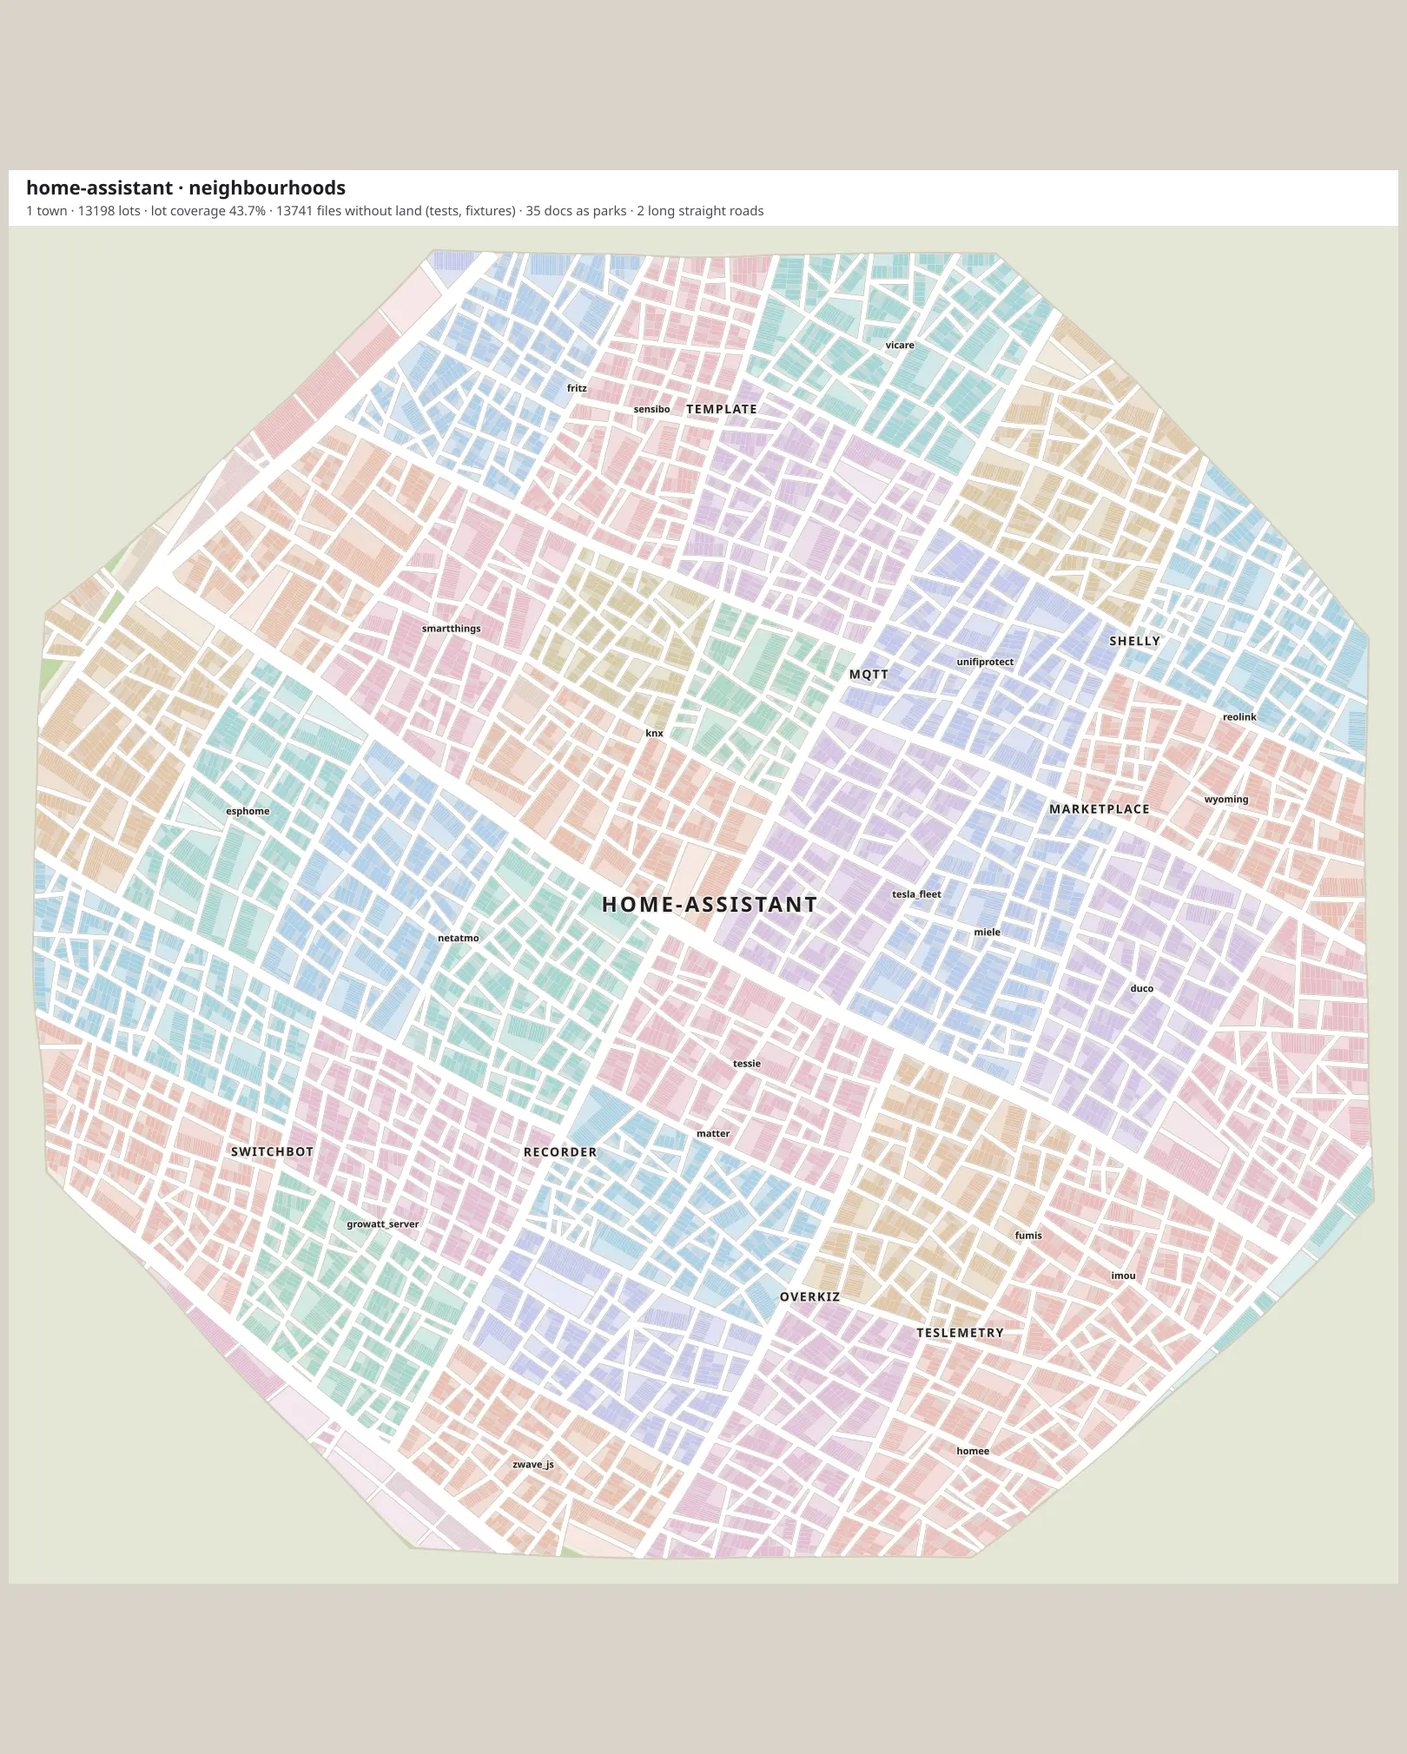
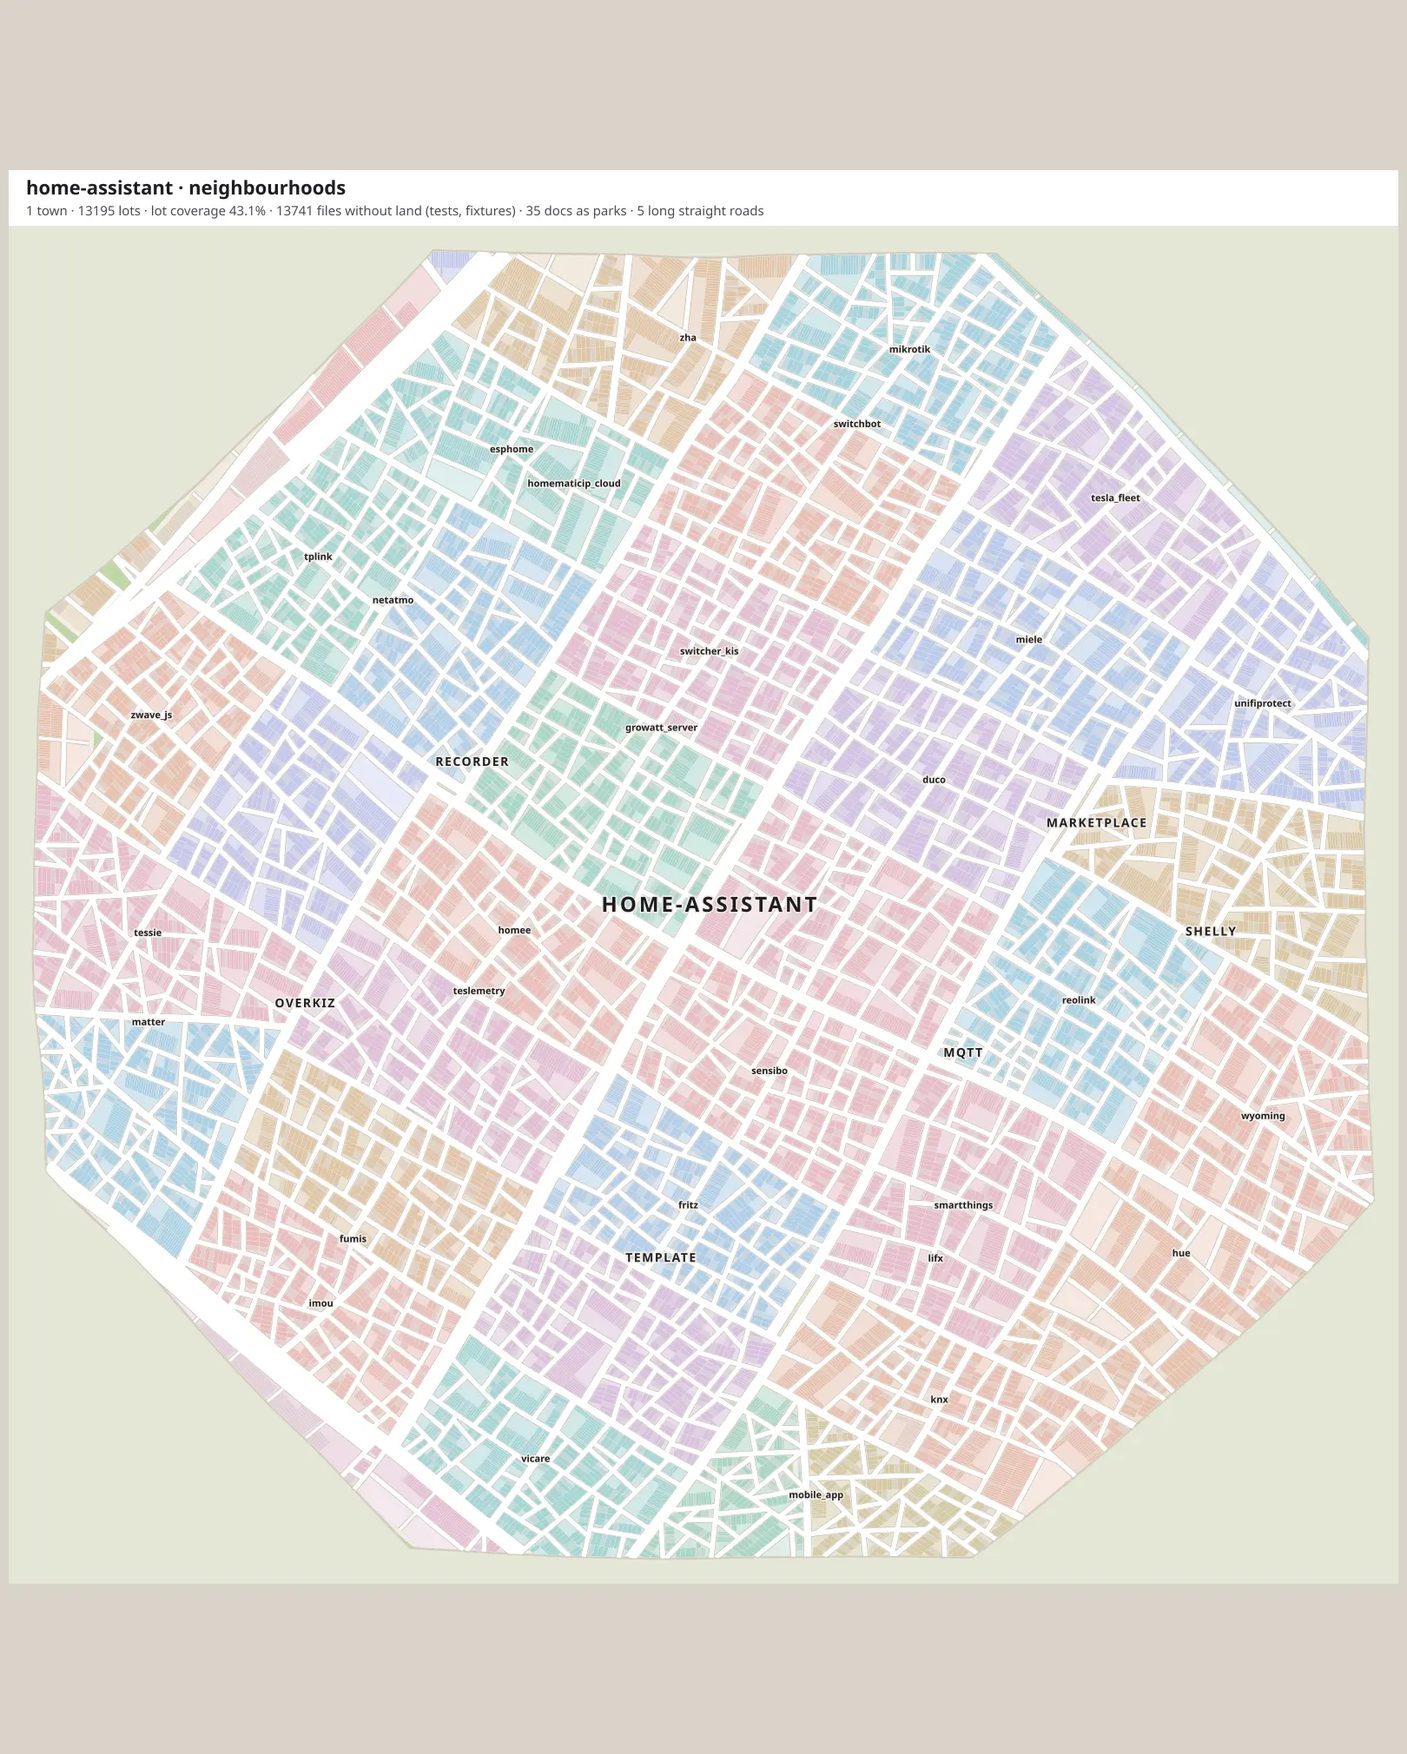
Add jogging cuts: pinwheels round plazas

diff --git a/docs/research/city-layout/variants/town.ts b/docs/research/city-layout/variants/town.ts
@@ -36,7 +36,12 @@ const MODULE = 4; // lot frontage, 0.5 u
 const PAVEMENT = 1.5;
 const LOT_AREA = MODULE * (BLOCK_SHORT / 2);
 const FLATTEN_BLOCKS = 9;
-const MAX_CLASS = 4; // a folder smaller than this many blocks is one neighbourhood
+const MAX_CLASS = 4;
+/** A cut at least this share of its town's diameter long is a long cut, and jogs when it can. */
+const LONG_CUT = 0.3;
+/** The sideways step of a jogging cut, and the least gap between its cross cuts that makes a plaza. */
+const JOG = 3 * U;
+const MIN_JOG = 2 * U; // a folder smaller than this many blocks is one neighbourhood
 /** Land uses that take no land unless the land dimension includes them. */
 export const DEFAULT_NO_LAND: LandUse[] = ["tests", "fixtures"];
 const MARGIN = ROAD_WIDTH.street / 2 + PAVEMENT;
@@ -108,6 +113,8 @@ export interface Options {
   /** The land dimension: land uses that take no land (tests and fixtures by default). */
   noLand: LandUse[];
   order: "centre-out" | "first-seen";
+  /** Jogging cuts: long cuts whose sides split again become pinwheels round a plaza. */
+  jog: boolean;
   warp: boolean;
 }
 
@@ -118,7 +125,7 @@ export interface Road {
 export interface Block {
   pts: Pt[];
   district: string;
-  kind: "built" | "open" | "park";
+  kind: "built" | "open" | "park" | "plaza";
 }
 export interface Lot {
   pts: Pt[];
@@ -380,7 +387,18 @@ export function layoutTown(
     }
   };
 
-  const split = (items: Item[], poly: Poly, mass: number, top: boolean, key: string, district: string) => {
+  /**
+   * The remembered binary decision at a key: which items go to which side of which line. A forced normal (a pinwheel's
+   * cross cuts) replaces the longest-extent rule and the tilt. Null when one item is left and no cut is remembered.
+   */
+  const decide = (
+    items: Item[],
+    poly: Poly,
+    mass: number,
+    top: boolean,
+    key: string,
+    normal?: [number, number],
+  ): { rec: CutRecord; left: Item[]; right: Item[] } | null => {
     let rec: CutRecord | undefined = plat.cuts[key];
     if (
       rec &&
@@ -392,7 +410,7 @@ export function layoutTown(
       rec = undefined;
     }
     if (!rec) {
-      if (items.length === 1) return place(poly, items[0], district);
+      if (items.length === 1) return null;
       // A fresh cut: split the ordered items where the land is halved, across the longer extent, path-seeded tilt.
       const total = demandOf(items);
       let acc = 0;
@@ -406,14 +424,19 @@ export function layoutTown(
           k = i;
         }
       }
-      const theta = longestEdgeAngle(poly.p);
-      const along = extent(poly.p, Math.cos(theta), Math.sin(theta));
-      const across = extent(poly.p, -Math.sin(theta), Math.cos(theta));
-      const base = along[1] - along[0] >= across[1] - across[0] ? theta : theta + Math.PI / 2;
-      // Seeds and tints use the key without separators, so a first lay draws exactly what STATE A drew.
-      const tilt = (unit(`${seedOf(key)}#tilt`) - 0.5) * 0.35;
-      const nx = Math.cos(base + tilt);
-      const ny = Math.sin(base + tilt);
+      let nx: number;
+      let ny: number;
+      if (normal) [nx, ny] = normal;
+      else {
+        const theta = longestEdgeAngle(poly.p);
+        const along = extent(poly.p, Math.cos(theta), Math.sin(theta));
+        const across = extent(poly.p, -Math.sin(theta), Math.cos(theta));
+        const base = along[1] - along[0] >= across[1] - across[0] ? theta : theta + Math.PI / 2;
+        // Seeds and tints use the key without separators, so a first lay draws exactly what STATE A drew.
+        const tilt = (unit(`${seedOf(key)}#tilt`) - 0.5) * 0.35;
+        nx = Math.cos(base + tilt);
+        ny = Math.sin(base + tilt);
+      }
       const left = items.slice(0, k);
       const right = items.slice(k);
       rec = {
@@ -453,8 +476,118 @@ export function layoutTown(
       }
     }
     const r = rec;
-    const left = items.filter((i) => r.left.includes(i.key));
-    const right = items.filter((i) => r.right.includes(i.key));
+    return {
+      rec: r,
+      left: items.filter((i) => r.left.includes(i.key)),
+      right: items.filter((i) => r.right.includes(i.key)),
+    };
+  };
+
+  /** The part of a road segment whose coordinate along (mx, my) lies within [lo, hi]. */
+  const trim = (seg: [Pt, Pt], mx: number, my: number, lo: number, hi: number): Pt[] | null => {
+    const v0 = mx * seg[0].x + my * seg[0].y;
+    const v1 = mx * seg[1].x + my * seg[1].y;
+    if (Math.abs(v1 - v0) < 1e-9) return v0 >= lo && v0 <= hi ? seg : null;
+    const at = (v: number) => Math.min(1, Math.max(0, (v - v0) / (v1 - v0)));
+    const [u0, u1] = [at(lo), at(hi)].sort((a, b) => a - b);
+    if (u1 - u0 < 1e-6) return null;
+    const point = (u: number): Pt => ({
+      x: seg[0].x + (seg[1].x - seg[0].x) * u,
+      y: seg[0].y + (seg[1].y - seg[0].y) * u,
+    });
+    return [point(u0), point(u1)];
+  };
+
+  /**
+   * Jogging cuts: a long cut whose sides each split again becomes a pinwheel. The two cross cuts are forced square to
+   * the main cut; where they fall at different points along it, the main cut steps sideways between them by JOG, and
+   * the four roads end in T-junctions round a small plaza. Every piece stays convex: two half-planes of the land.
+   */
+  const pinwheel = (
+    decision: { rec: CutRecord; left: Item[]; right: Item[] },
+    poly: Poly,
+    key: string,
+    district: string,
+  ): boolean => {
+    const { rec: r, left, right } = decision;
+    if (!options.jog || left.length < 2 || right.length < 2) return false;
+    const seg = chord(poly.p, r.nx, r.ny, r.c);
+    const diameter = 2 * Math.sqrt(town.stats.landArea / Math.PI);
+    if (!seg || Math.hypot(seg[1].x - seg[0].x, seg[1].y - seg[0].y) < LONG_CUT * diameter) return false;
+    const mx = -r.ny;
+    const my = r.nx;
+    const below = decide(left, clip(poly, r.nx, r.ny, r.c, 0), massOf(left), false, `${key}>L`, [mx, my]);
+    const above = decide(right, clip(poly, -r.nx, -r.ny, -r.c, 0), massOf(right), false, `${key}>R`, [mx, my]);
+    if (!below || !above) return false;
+    const square = (rec: CutRecord) => rec.nx * mx + rec.ny * my > 0.9999;
+    if (!square(below.rec) || !square(above.rec)) return false;
+    if ([below.left, below.right, above.left, above.right].some((part) => part.length === 0)) return false;
+    const t1 = below.rec.c;
+    const t2 = above.rec.c;
+    if (Math.abs(t1 - t2) < MIN_JOG) return false;
+    const sigma = t1 > t2 ? -1 : 1;
+    const sLeft = r.c + (sigma * JOG) / 2;
+    const sRight = r.c - (sigma * JOG) / 2;
+    const [lo, hi] = [Math.min(t1, t2), Math.max(t1, t2)];
+    const wMain = ROAD_WIDTH[r.cls];
+    const wBelow = ROAD_WIDTH[below.rec.cls];
+    const wAbove = ROAD_WIDTH[above.rec.cls];
+    const n = (p: Poly, nx: number, ny: number, c: number, w: number) => clip(p, nx, ny, c, w);
+    // Pieces in rotation: below-left, below-right, above-right, above-left; each is the land within two half-planes.
+    const pieces: [Item[], Poly, string][] = [
+      [below.left, n(n(poly, r.nx, r.ny, sLeft, wMain), mx, my, t1, wBelow), `${key}>L>L`],
+      [below.right, n(n(poly, r.nx, r.ny, sRight, wMain), -mx, -my, -t1, wBelow), `${key}>L>R`],
+      [above.right, n(n(poly, -r.nx, -r.ny, -sRight, wMain), -mx, -my, -t2, wAbove), `${key}>R>R`],
+      [above.left, n(n(poly, -r.nx, -r.ny, -sLeft, wMain), mx, my, t2, wAbove), `${key}>R>L`],
+    ];
+    // Roads: each runs from the town edge to the far side of the plaza, where it meets the next in a T.
+    const roads: [Pt[] | null, RoadClass][] = [];
+    const along = (c: number) => chord(poly.p, r.nx, r.ny, c);
+    const across = (c: number) => chord(poly.p, mx, my, c);
+    const leftRoad = along(sLeft);
+    const rightRoad = along(sRight);
+    const belowRoad = across(t1);
+    const aboveRoad = across(t2);
+    const [sLo, sHi] = [Math.min(sLeft, sRight), Math.max(sLeft, sRight)];
+    if (leftRoad) roads.push([trim(leftRoad, mx, my, -Infinity, hi), r.cls]);
+    if (rightRoad) roads.push([trim(rightRoad, mx, my, lo, Infinity), r.cls]);
+    if (belowRoad) roads.push([trim(belowRoad, r.nx, r.ny, -Infinity, sHi), below.rec.cls]);
+    if (aboveRoad) roads.push([trim(aboveRoad, r.nx, r.ny, sLo, Infinity), above.rec.cls]);
+    for (const [pts, cls] of roads) if (pts) town.roads.push({ pts, cls });
+    const plazaLand = n(
+      n(
+        n(n(poly, mx, my, hi, t1 > t2 ? wBelow : wAbove), -mx, -my, -lo, t1 > t2 ? wAbove : wBelow),
+        r.nx,
+        r.ny,
+        sHi,
+        wMain,
+      ),
+      -r.nx,
+      -r.ny,
+      -sLo,
+      wMain,
+    );
+    const plaza = inset(plazaLand, PAVEMENT);
+    if (plaza.p.length >= 3) town.blocks.push({ pts: plaza.p, district, kind: "plaza" });
+    // Districts and wards follow the same keys and tints as an unjogged cut would.
+    const major = (cls: RoadClass) => cls !== "street" && cls !== "lane";
+    if (major(r.cls)) wards(poly, r, left, right, key);
+    const sideDistrict = (sub: string) => (major(r.cls) ? seedOf(sub) : district);
+    const subDistrict = (rec: CutRecord, side: string, sub: string) =>
+      major(rec.cls) ? seedOf(sub) : sideDistrict(side);
+    for (const [part, piece, sub] of pieces) {
+      const side = sub.slice(0, -2);
+      const rec = side.endsWith(">L") ? below.rec : above.rec;
+      split(part, piece, massOf(part), false, sub, subDistrict(rec, side, sub));
+    }
+    return true;
+  };
+
+  const split = (items: Item[], poly: Poly, mass: number, top: boolean, key: string, district: string) => {
+    const decision = decide(items, poly, mass, top, key);
+    if (!decision) return place(poly, items[0], district);
+    if (pinwheel(decision, poly, key, district)) return;
+    const { rec: r, left, right } = decision;
     const seg = chord(poly.p, r.nx, r.ny, r.c);
     const major = r.cls !== "street" && r.cls !== "lane";
     if (seg && left.length > 0 && right.length > 0) town.roads.push({ pts: seg, cls: r.cls });

diff --git a/docs/research/city-layout/variants/render-town.ts b/docs/research/city-layout/variants/render-town.ts
@@ -14,6 +14,7 @@ interface Theme {
   ground: string;
   outline: string;
   park: string;
+  plaza: string;
   casing: string;
   road: string;
   label: string;
@@ -48,6 +49,7 @@ const THEMES: Record<ThemeName, Theme> = {
     ground: "#F2EEE6",
     outline: "#D3CCBD",
     park: "#BFD8A6",
+    plaza: "#E9DFCB",
     casing: "#C3BBAC",
     road: "#FFFFFF",
     label: "#1E1E24",
@@ -64,6 +66,7 @@ const THEMES: Record<ThemeName, Theme> = {
     ground: DRACULA.background,
     outline: DRACULA.line,
     park: mix(DRACULA.background, "#50FA7B", 0.28),
+    plaza: mix(DRACULA.background, DRACULA.foreground, 0.16),
     casing: "#191A21",
     road: DRACULA.line,
     label: DRACULA.foreground,
@@ -138,7 +141,7 @@ export function renderRegion(
         );
         continue;
       }
-      const fill = b.kind === "park" ? theme.park : theme.block(b.district);
+      const fill = b.kind === "park" ? theme.park : b.kind === "plaza" ? theme.plaza : theme.block(b.district);
       out.push(`<path d="${poly(b.pts)}" fill="${fill}"/>`);
     }
     // Roads: all casings, then all fills, smallest class first, so junctions merge.

diff --git a/docs/research/city-layout/variants/towns.ts b/docs/research/city-layout/variants/towns.ts
@@ -18,7 +18,7 @@ const PRIVATE = new Set(
         .filter(Boolean)
     : [],
 );
-const BASE: Options = { density: 0.5, order: "centre-out", warp: true, noLand: DEFAULT_NO_LAND };
+const BASE: Options = { density: 0.5, order: "centre-out", warp: true, jog: true, noLand: DEFAULT_NO_LAND };
 
 interface Shot {
   caption: string;
@@ -63,6 +63,13 @@ const SECTIONS: Record<string, { repos: string[]; shots: Shot[] }> = {
     shots: [
       { caption: "Paper atlas", options: BASE, camera: "plan", theme: "paper-atlas" },
       { caption: "Dracula", options: BASE, camera: "plan", theme: "dracula" },
+    ],
+  },
+  jog: {
+    repos: ["next.js", "react", "home-assistant", "takken.io"],
+    shots: [
+      { caption: "straight cuts (STATE A)", options: { ...BASE, jog: false }, camera: "plan" },
+      { caption: "jogging cuts (pinwheels round plazas)", options: BASE, camera: "plan" },
     ],
   },
   hero: {

diff --git a/docs/research/city-layout/variants/history.ts b/docs/research/city-layout/variants/history.ts
@@ -332,7 +332,7 @@ if (stepMode) {
               live.map((f) => f.path),
             ),
           },
-          { density: 0.5, order: "centre-out", warp: true, noLand: ["tests", "fixtures"] },
+          { density: 0.5, order: "centre-out", warp: true, jog: true, noLand: ["tests", "fixtures"] },
           mode === "plat" ? regionPlat : emptyRegionPlat(),
         );
         const liveLots = region.towns.flatMap((town) => town.lots.filter((l) => !l.vacant));
@@ -432,6 +432,7 @@ if (filmMode) {
     density: 0.5,
     order: "centre-out" as const,
     warp: true,
+    jog: true,
     noLand: ["tests", "fixtures"] as LandUse[],
   };
   for (const frame of frames) {

diff --git a/docs/research/city-layout/variants/serve.ts b/docs/research/city-layout/variants/serve.ts
@@ -48,6 +48,7 @@ function sheets(): Sheet[] {
 const SECTION_TITLES: Record<string, string> = {
   towns: "Towns (plan)",
   hero: "Hero (2:1 dimetric)",
+  jog: "Jogging cuts",
   land: "Land dimension",
   themes: "Themes",
   density: "Density (grain)",

diff --git a/docs/research/city-layout/variants/README.md b/docs/research/city-layout/variants/README.md
@@ -88,6 +88,27 @@ What still moves:
   per commit, 12.6% on deletions), as tiny districts kept outgrowing their bands.
 - **Renewal.** A neighbourhood more than half vacant re-lays its lots in order; redux's deleting commits are mostly this.
 
+### Jogging cuts
+
+A long cut (at least 30% of the town's diameter) with two or more items on each side becomes a pinwheel: both sides
+split square to it, and where those cross cuts fall at least 2 u apart, the long cut steps 3 u sideways between them.
+Four roads end in T-junctions round a plaza; every piece stays convex. `Options.jog` switches it; the plat remembers
+it through the same cut records. `img/towns-jog-<repo>.webp` sets straight cuts (STATE A) beside jogging cuts.
+
+| Repo           | Pinwheels     | Long straight roads, straight | Long straight roads, jogging |
+| -------------- | ------------- | ----------------------------- | ---------------------------- |
+| next.js        | 13            | 24                            | 24                           |
+| react          | (not counted) | 10                            | 7                            |
+| home-assistant | 5             | 2                             | 5                            |
+| takken.io      | 1             | 9                             | 9                            |
+
+- The count barely moves: a pinwheel road still runs from the town edge to just past the middle (about 55% of a
+  top-level cut), so one long road becomes two half roads that both pass the 45% threshold.
+- Cuts with a single item on one side (one heavy folder against the rest) cannot pinwheel and stay straight.
+- Forcing the cross cuts square rearranges the districts: jogging changes STATE A's layout as well as its roads.
+- Stability holds: React 0.1% per commit and 1.2% on deleting commits; takken.io 1.2% and 5.9%.
+- Lots without room rise slightly (next.js 8 to 18): the plaza and the step take land from pieces sized without them.
+
 ## Sheets
 
 - `img/area-<repo>.webp` - when judging lot size: file count, lines, bytes, shared lots; top row whole city, bottom a district
@@ -191,16 +212,16 @@ pm2 start bun --name citymap-dev --cwd "$PWD" -- serve.ts   # https://127.0.0.1:
 Clones are blob-less (`git clone --filter=blob:none`); history replay runs with `GIT_NO_LAZY_FETCH=1` so it never
 fetches contents. Rendering needs Inkscape and ImageMagick.| Repo | Lots | Lot coverage of land | Local street share | Long straight roads | Lots without room |
 | --- | --- | --- | --- | --- | --- |
-| takken.io | 244 | 20.2% | 88% | 9 | 0 |
-| react | 2,019 | 36% | 76% | 10 | 5 |
-| redux | 92 | 13.1% | 80% | 5 | 0 |
-| next.js | 8,032 | 36.2% | 81% | 24 | 8 |
-| game-ci-cli | 702 | 26.1% | 80% | 6 | 0 |
-| livediagram | 4,121 | 34.5% | 74% | 9 | 10 |
+| takken.io | 244 | 22.1% | 88% | 9 | 0 |
+| react | 2,019 | 34.7% | 74% | 7 | 5 |
+| redux | 92 | 13.2% | 80% | 5 | 0 |
+| next.js | 8,022 | 35.8% | 79% | 24 | 18 |
+| game-ci-cli | 702 | 25.7% | 76% | 4 | 0 |
+| livediagram | 4,124 | 36.7% | 72% | 10 | 7 |
 | studio-worker | 101 | 26.1% | 100% | 3 | 0 |
-| home-assistant | 13,198 | 43.7% | 80% | 2 | 8 |
-| typescript | 929 | 37.6% | 80% | 8 | 1 |
-| rust | 6,237 | 29.4% | 72% | 4 | 23 |
+| home-assistant | 13,195 | 43.1% | 79% | 5 | 11 |
+| typescript | 927 | 36.7% | 80% | 7 | 3 |
+| rust | 6,246 | 29.6% | 69% | 6 | 14 |
 
 "Long straight roads" counts roads longer than 45% of their town's diameter that stay within 0.5% of a straight line.
 Small towns still have too many: the warp bends less than a cut is long, and every cut runs wall to wall.

diff --git a/docs/specs/006-ground-plan/ground-plan.md b/docs/specs/006-ground-plan/ground-plan.md
@@ -34,6 +34,8 @@ Each concept has one name; the names in brackets are not used.
 | renewal         | Clearing a folder's vacant lots and re-laying its land.                                            |
 | reserve plot    | A block with no lots yet: room for growth.                                                         |
 | park            | Land of docs.                                                                                      |
+| pinwheel        | Four pieces turning round a plaza, their roads ending in T-junctions: how a long cut jogs.         |
+| plaza           | The open square at the heart of a pinwheel.                                                        |
 | density         | The setting for land per lot, from suburban to dense core.                                         |
 | old town        | A city kept whole, as an island, when its archetype switches.                                      |
 | land use        | The role of a file (source, tests, fixtures and so on), from path rules.                           |
@@ -102,8 +104,10 @@ is therefore readable as distance from the core, and newcomers join the edges.
   contiguous run.
 - Chains of folders without land of their own and with a single child collapse into one.
 - Land between collectors or bigger roads is a ward.
-- Long cuts jog: where a cut meets a crossing road, its continuation may shift sideways, so no straight road crosses a
-  whole district.
+- Long cuts jog. A cut at least 30% of its town's diameter long, with two or more items on each side, becomes a
+  pinwheel: each side splits again square to it, and where those cross cuts fall at least 2 u apart, the long cut steps
+  sideways by 3 u between them. The four roads end in T-junctions round a plaza, and each of the four pieces is the
+  land within two half-planes.
 - The plat remembers every cut: its line, its class, the items on each side, and each side's band (1.35 times its
   demand at the last cut). A newcomer joins the side with more spare band. A cut moves, to the split of today's demand,
   only when a side outgrows its band. The cuts of the top two folder levels form the fixed frame and only move on an
